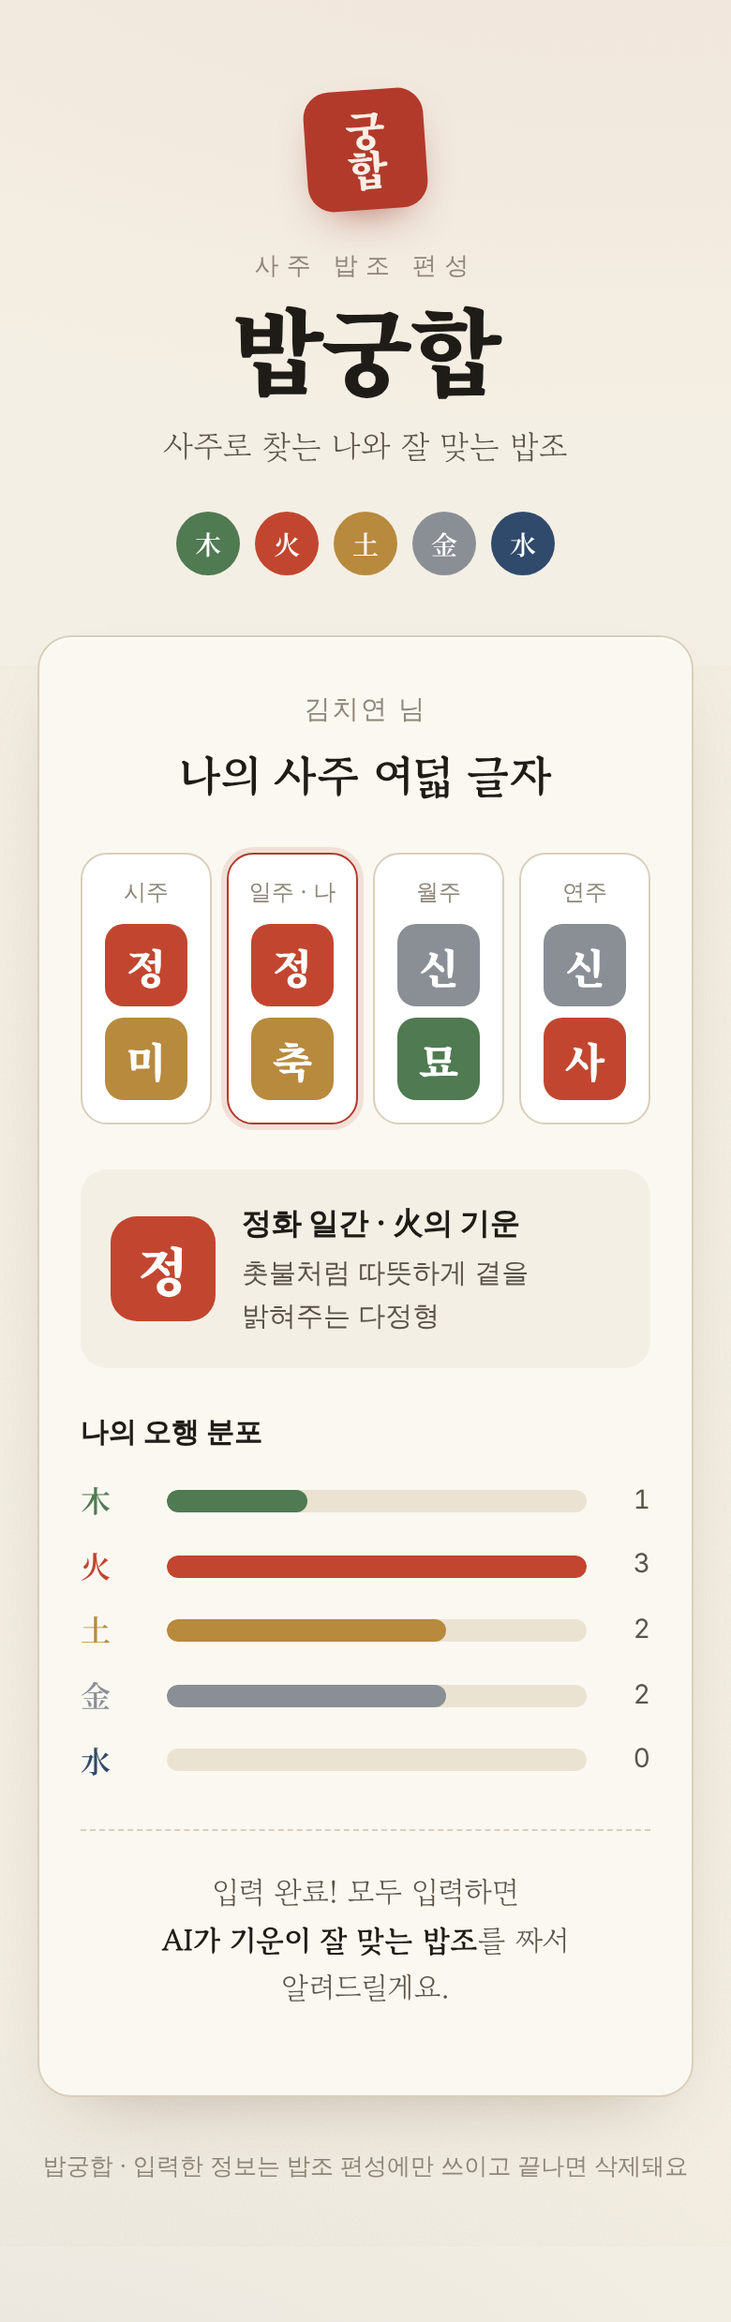
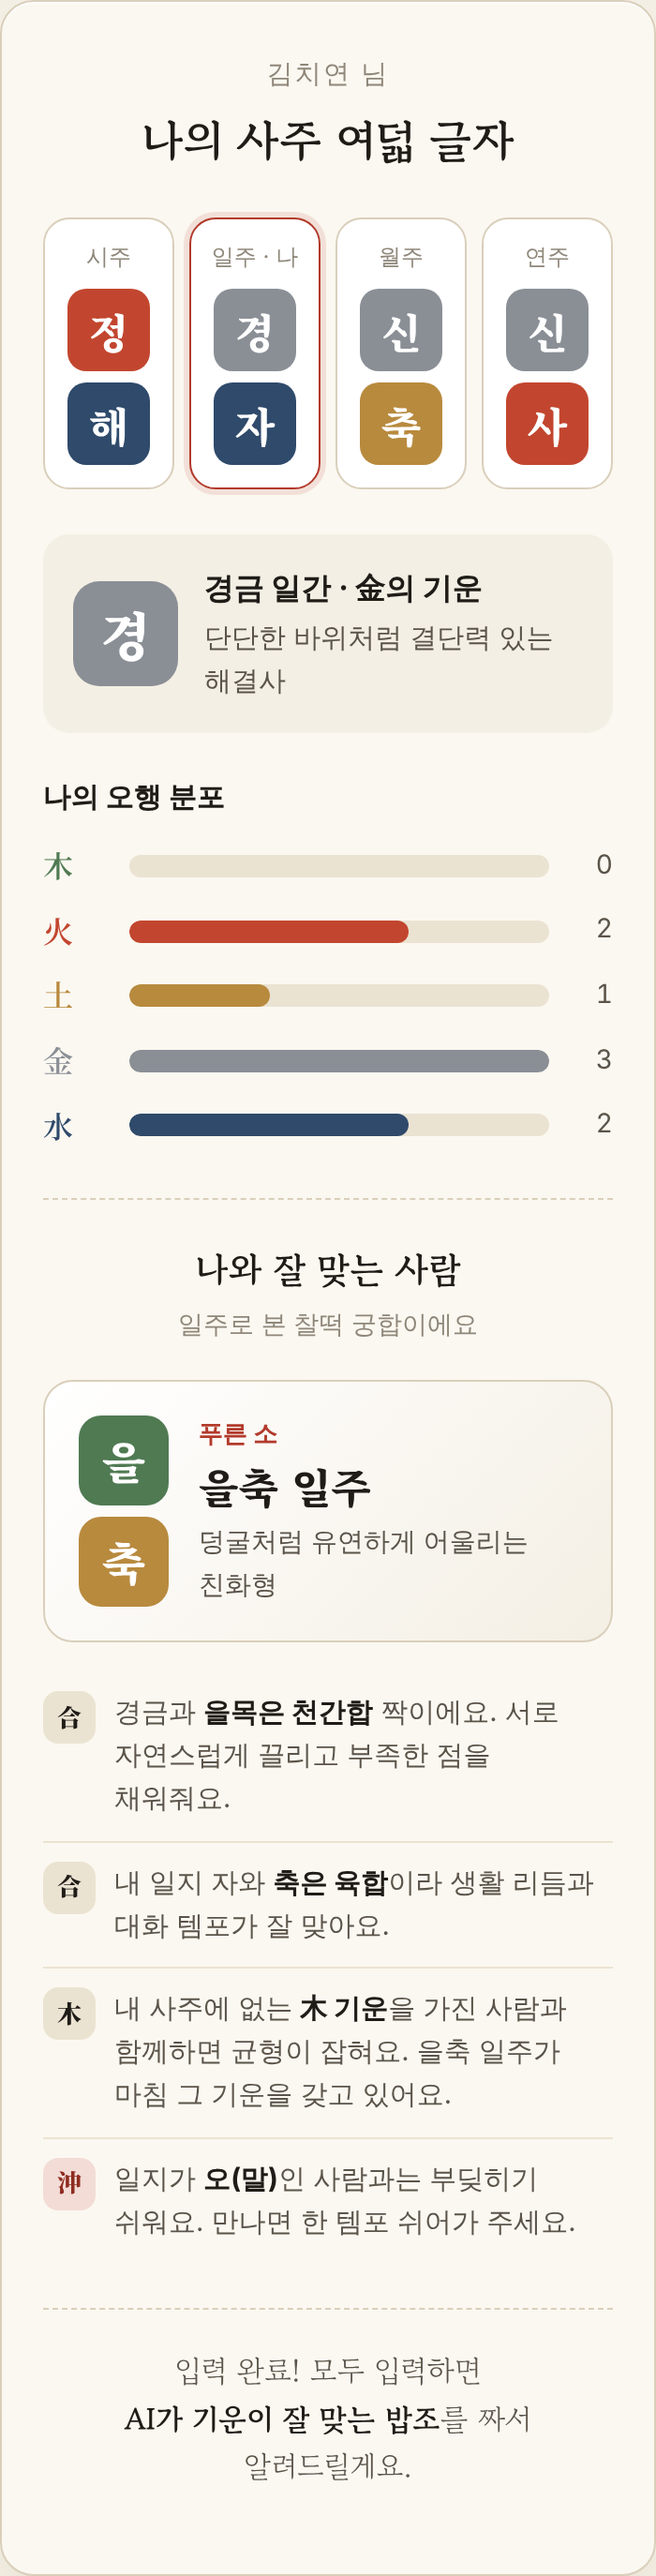
결과 화면에 "나와 잘 맞는 사람" 추가
- 천간합·육합으로 잘 맞는 일주를, 오행 분포로 보완 기운을 규칙 기반으로 계산(lib/match.js)
- 부딪히기 쉬운 일지(충)도 함께 안내
- 성별과 다른 참여자 정보는 쓰지 않음

Claude-Session: https://claude.ai/code/session_012bKZfKa4NxDtXrmtTF5ER5

diff --git a/public/index.html b/public/index.html
@@ -303,6 +303,42 @@
     .bar .fill { height: 100%; width: 0; border-radius: 99px; transition: width 1s cubic-bezier(.2,.8,.2,1); }
     .bar .count { text-align: right; font-variant-numeric: tabular-nums; color: var(--ink-soft); font-size: 14px; }
 
+    .match { margin-top: 26px; padding-top: 22px; border-top: 1px dashed var(--line); }
+    .match h3 { font-family: "Gowun Batang", serif; font-size: 19px; margin: 0 0 4px; text-align: center; }
+    .match .sub { text-align: center; font-size: 13.5px; color: var(--ink-faint); margin: 0 0 18px; }
+    .match-hero {
+      display: flex; align-items: center; gap: 16px;
+      padding: 18px;
+      border-radius: 16px;
+      background: linear-gradient(135deg, #fff, var(--paper));
+      border: 1px solid var(--line);
+      margin-bottom: 16px;
+    }
+    .match-hero .chars { display: flex; flex-direction: column; gap: 6px; flex: none; }
+    .match-hero .char {
+      width: 48px; height: 48px; border-radius: 12px;
+      display: grid; place-items: center;
+      color: #fff; font-family: "Noto Serif KR", serif; font-weight: 900; font-size: 24px;
+    }
+    .match-hero .name { font-family: "Noto Serif KR", serif; font-weight: 900; font-size: 22px; line-height: 1.2; }
+    .match-hero .nick { font-size: 13px; color: var(--seal); font-weight: 600; margin-bottom: 4px; }
+    .match-hero p { margin: 6px 0 0; font-size: 14px; color: var(--ink-soft); }
+    .reasons { list-style: none; margin: 0; padding: 0; }
+    .reasons li {
+      display: grid; grid-template-columns: 28px 1fr; gap: 10px; align-items: start;
+      font-size: 14.5px; color: var(--ink-soft);
+      padding: 10px 0;
+    }
+    .reasons li + li { border-top: 1px solid var(--paper-deep); }
+    .reasons .icon {
+      width: 28px; height: 28px; border-radius: 8px;
+      display: grid; place-items: center;
+      font-family: "Noto Serif KR", serif; font-weight: 900; font-size: 13px;
+      background: var(--paper-deep); color: var(--ink);
+    }
+    .reasons b { color: var(--ink); }
+    .reasons li.warn .icon { background: #f3dcd6; color: var(--seal-deep); }
+
     .next {
       margin-top: 24px;
       padding-top: 20px;
@@ -400,6 +436,7 @@
         <h3>나의 오행 분포</h3>
         <div id="bars"></div>
       </div>
+      <div class="match" id="match"></div>
       <p class="next">입력 완료! 모두 입력하면<br><b>AI가 기운이 잘 맞는 밥조</b>를 짜서 알려드릴게요.</p>
     </section>
 
@@ -421,6 +458,51 @@
       경: '단단한 바위처럼 결단력 있는 해결사', 신: '빛나는 보석처럼 섬세하고 감각적인 완벽주의자',
       임: '넓은 바다처럼 시야가 넓은 자유로운 영혼', 계: '봄비처럼 조용히 스며드는 공감 능력자',
     };
+
+    const STEM_COLOR = { 목: '푸른', 화: '붉은', 토: '누런', 금: '하얀', 수: '검은' };
+    const ANIMAL = { 자: '쥐', 축: '소', 인: '호랑이', 묘: '토끼', 진: '용', 사: '뱀', 오: '말', 미: '양', 신: '원숭이', 유: '닭', 술: '개', 해: '돼지' };
+    // 받침 유무로 조사를 고른다. 예: josa('경', '과', '와') → '경과'
+    const josa = (word, withBatchim, without) => {
+      const code = word.charCodeAt(word.length - 1) - 0xac00;
+      return word + (code >= 0 && code % 28 ? withBatchim : without);
+    };
+
+    function renderMatch(data) {
+      const m = data.match;
+      if (!m) return;
+      const myStem = data.pillars.day[0];
+      const myBranch = data.pillars.day[1];
+      const myEl = data.dayMasterElement;
+      const lackingText = m.lacking.map((e) => HANJA[e]).join('·');
+      const fills = [m.stemElement, m.branchElement].filter((e) => m.lacking.includes(e));
+      const reasons = [
+        ['合', `${josa(myStem + myEl, '과', '와')} <b>${josa(m.stem + m.stemElement, '은', '는')} 천간합</b> 짝이에요. 서로 자연스럽게 끌리고 부족한 점을 채워줘요.`],
+        ['合', `내 일지 ${josa(myBranch, '과', '와')} <b>${josa(m.branch, '은', '는')} 육합</b>이라 생활 리듬과 대화 템포가 잘 맞아요.`],
+        [HANJA[m.lacking[0]], m.lackingCount === 0
+          ? `내 사주에 없는 <b>${lackingText} 기운</b>을 가진 사람과 함께하면 균형이 잡혀요.${fills.length ? ` ${m.pillar} 일주가 마침 그 기운을 갖고 있어요.` : ''}`
+          : `내게 적은 <b>${lackingText} 기운</b>이 강한 사람과 함께하면 균형이 잡혀요.${fills.length ? ` ${m.pillar} 일주가 마침 그 기운을 갖고 있어요.` : ''}`],
+      ];
+      const warn = `일지가 <b>${m.clashBranch}(${ANIMAL[m.clashBranch]})</b>인 사람과는 부딪히기 쉬워요. 만나면 한 템포 쉬어가 주세요.`;
+
+      document.getElementById('match').innerHTML = `
+        <h3>나와 잘 맞는 사람</h3>
+        <p class="sub">일주로 본 찰떡 궁합이에요</p>
+        <div class="match-hero">
+          <div class="chars">
+            <span class="char" style="background:${COLOR[m.stemElement]}">${m.stem}</span>
+            <span class="char" style="background:${COLOR[m.branchElement]}">${m.branch}</span>
+          </div>
+          <div>
+            <div class="nick">${STEM_COLOR[m.stemElement]} ${ANIMAL[m.branch]}</div>
+            <div class="name">${m.pillar} 일주</div>
+            <p>${DAY_MASTER_TEXT[m.stem] ?? ''}</p>
+          </div>
+        </div>
+        <ul class="reasons">
+          ${reasons.map(([icon, text]) => `<li><span class="icon">${icon}</span><span>${text}</span></li>`).join('')}
+          <li class="warn"><span class="icon">沖</span><span>${warn}</span></li>
+        </ul>`;
+    }
 
     const params = new URLSearchParams(location.search);
     const inviteCode = params.get('code');
@@ -533,6 +615,8 @@
         <div class="bar"><span class="name" style="color:${COLOR[k]}">${HANJA[k]}</span>
         <div class="track"><div class="fill" data-w="${(v / max) * 100}" style="background:${COLOR[k]}"></div></div>
         <span class="count">${v}</span></div>`).join('');
+
+      renderMatch(data);
 
       const result = document.getElementById('result');
       result.classList.add('show');

diff --git a/lib/match.js b/lib/match.js
@@ -1,0 +1,34 @@
+// 나와 잘 맞는 상대의 사주를 규칙으로 계산한다. 성별이나 다른 참여자 정보는 쓰지 않는다.
+import { getHeavenlyStemElement, getEarthlyBranchElement } from 'manseryeok';
+
+// 천간합: 서로 끌리는 일간 짝
+const STEM_COMBINE = { 갑: '기', 기: '갑', 을: '경', 경: '을', 병: '신', 신: '병', 정: '임', 임: '정', 무: '계', 계: '무' };
+// 지지 육합: 생활 리듬이 맞는 일지 짝
+const BRANCH_COMBINE = { 자: '축', 축: '자', 인: '해', 해: '인', 묘: '술', 술: '묘', 진: '유', 유: '진', 사: '신', 신: '사', 오: '미', 미: '오' };
+// 지지 충: 부딪히기 쉬운 일지
+const BRANCH_CLASH = { 자: '오', 오: '자', 축: '미', 미: '축', 인: '신', 신: '인', 묘: '유', 유: '묘', 진: '술', 술: '진', 사: '해', 해: '사' };
+
+const ELEMENTS = ['목', '화', '토', '금', '수'];
+
+/**
+ * @param {{pillars: {day: string}, elements: Record<string, number>}} saju computeSaju 결과
+ */
+export function findIdealMatch(saju) {
+  const [myStem, myBranch] = saju.pillars.day;
+  const stem = STEM_COMBINE[myStem];
+  const branch = BRANCH_COMBINE[myBranch];
+
+  const min = Math.min(...ELEMENTS.map((e) => saju.elements[e]));
+  const lacking = ELEMENTS.filter((e) => saju.elements[e] === min);
+
+  return {
+    pillar: stem + branch,
+    stem,
+    branch,
+    stemElement: getHeavenlyStemElement(stem),
+    branchElement: getEarthlyBranchElement(branch),
+    lacking,
+    lackingCount: min,
+    clashBranch: BRANCH_CLASH[myBranch],
+  };
+}

diff --git a/api/submit.js b/api/submit.js
@@ -2,6 +2,7 @@
 // 검증 → 사주 계산 → DB 저장 순서로 처리하고, 본인 사주만 돌려준다.
 import { createClient } from '@supabase/supabase-js';
 import { computeSaju } from '../lib/saju.js';
+import { findIdealMatch } from '../lib/match.js';
 
 const CONSENT_VERSION = '2026-10-30-v2';
 const LIBRARY_VERSIONS = { manseryeok: '2.0.0', 'lunar-javascript': '1.7.7' };
@@ -98,5 +99,6 @@ export default async function handler(req, res) {
     dayMasterElement: saju.dayMasterElement,
     elements: saju.elements,
     timeKnown: saju.timeKnown,
+    match: findIdealMatch(saju),
   });
 }
